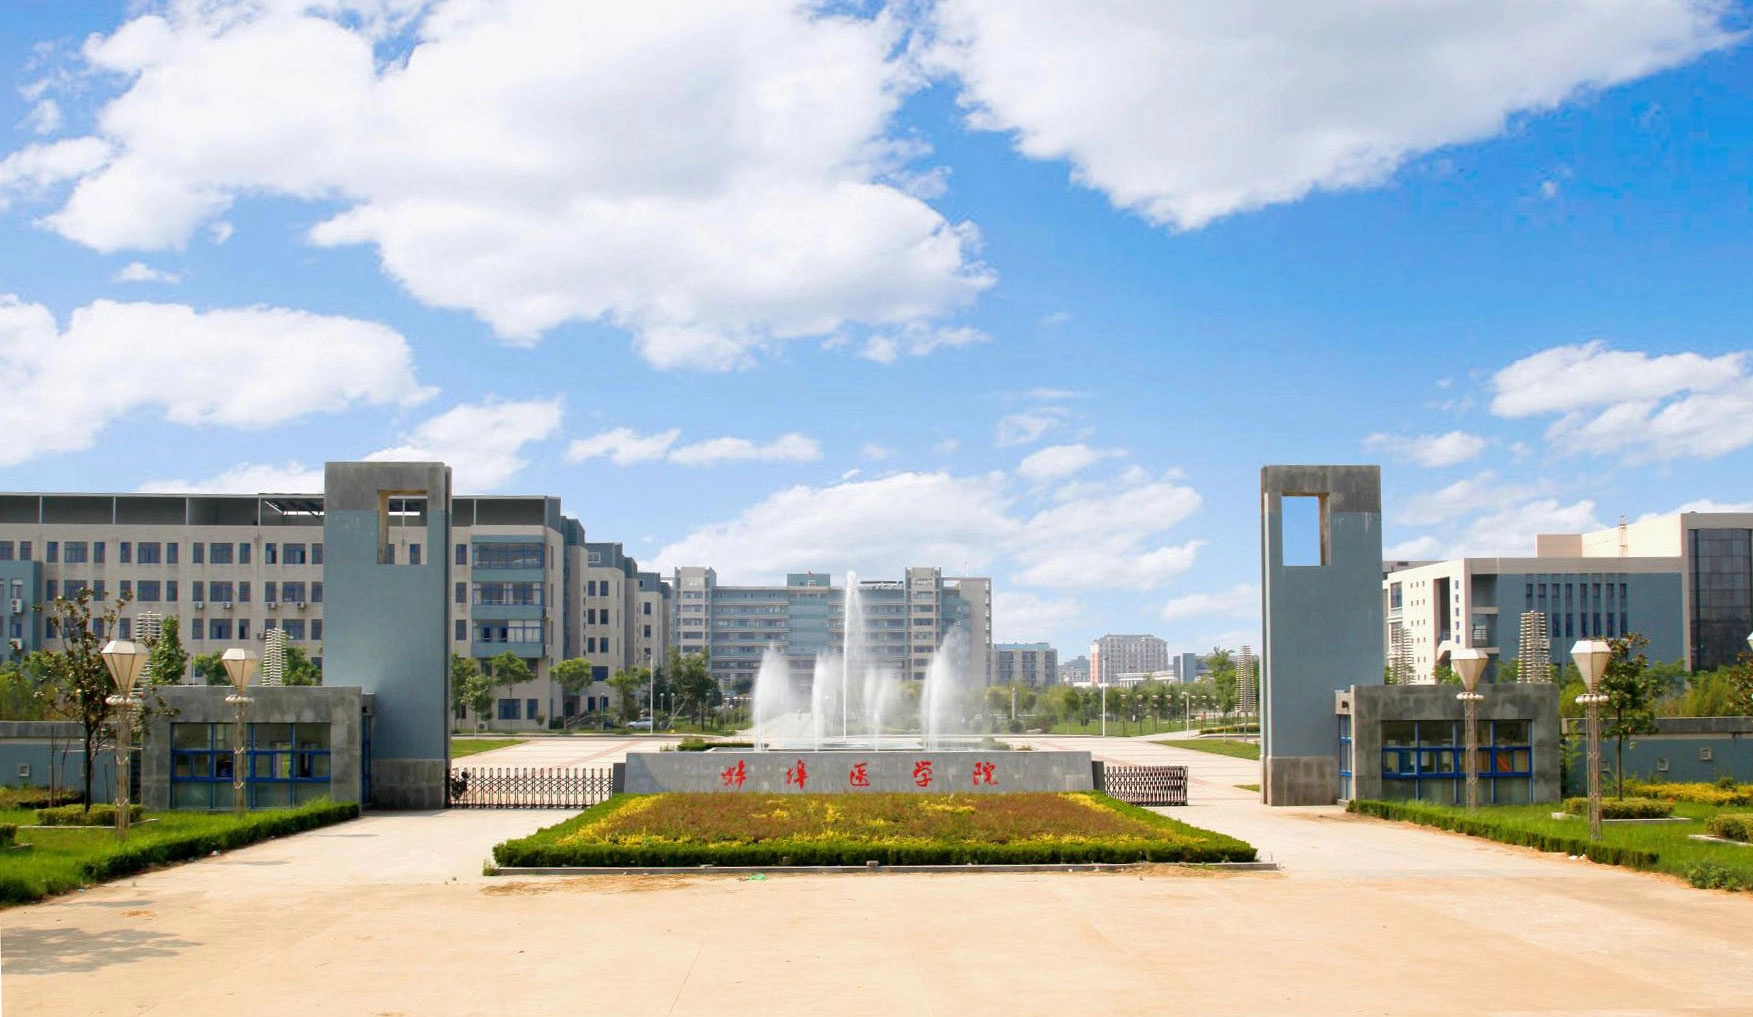
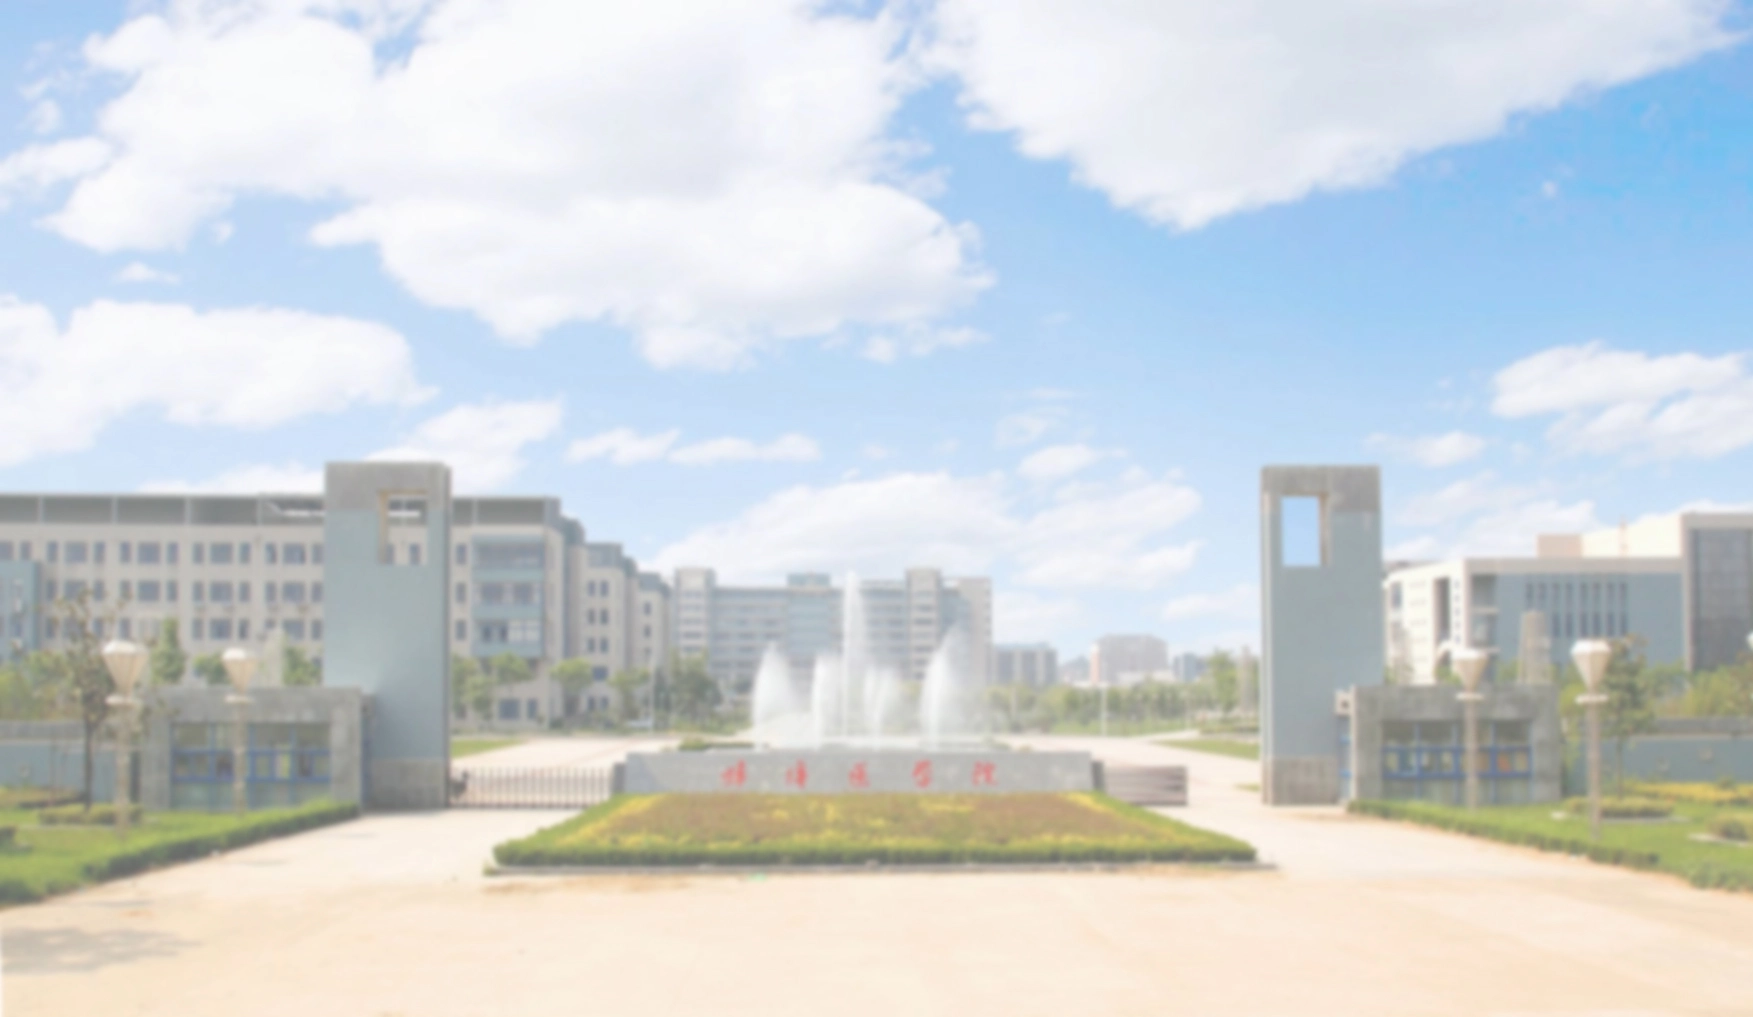
Update

diff --git a/research.html b/research.html
@@ -12,17 +12,14 @@
     <!--[if lt IE 9]>
     <script src="//html5shiv.googlecode.com/svn/trunk/html5.js"></script>
     <![endif]-->
-
     <script>
       (function(i,s,o,g,r,a,m){i['GoogleAnalyticsObject']=r;i[r]=i[r]||function(){
       (i[r].q=i[r].q||[]).push(arguments)},i[r].l=1*new Date();a=s.createElement(o),
       m=s.getElementsByTagName(o)[0];a.async=1;a.src=g;m.parentNode.insertBefore(a,m)
       })(window,document,'script','https://www.google-analytics.com/analytics.js','ga');
-
       ga('create', 'UA-29643011-3', 'auto');
       ga('send', 'pageview');
     </script>
-
     <!-- New GA4 tracking code, see https://support.google.com/analytics/answer/10271001#analyticsjs-enable-basic --> 
     <script async src="https://www.googletagmanager.com/gtag/js?id=G-GNJD50R0Z7"></script>
     <script>
@@ -31,11 +28,9 @@
     gtag('js', new Date());
     gtag('config', 'G-GNJD50R0Z7');
     </script>
-
     <!-- For all browsers -->
     <link rel="stylesheet" href="assets/css/academicons.min.css"/>
     <link rel="stylesheet" href="assets/css/academicons.css"/>
-
     <style>
       button.accordion {
       font:14px/1.5 Lato, "Helvetica Neue", Helvetica, Arial, sans-serif;
@@ -141,22 +136,21 @@
     <hr>                    
     -->
 
-
     <h2 style="text-shadow: 0.6px 0.6px 0 #000;"><a id="published-papers-updated" class="anchor" href="#publications" aria-hidden="true"><span class="octicon octicon-link"></span></a>Funding</h2>
     <p style="margin:0"> <i> <b> Screening and verification of prognosis-related genes for head and neck squamous cell carcinoma based on bioinformatics.</b> </i> <br> <i> <b> Junjie Ma </b> </i>, Jingyu Mei, Lili Ren, Wang Li, Yifan Zhu, Haoxuan Zhang. <br> National Innovative Entrepreneurial Training Plan Program for College Students (<a href="http://gjcxcy.bjtu.edu.cn/NewLXItemListForStudentDetail.aspx?ItemNo=895639&year=2022&type=student&IsLXItem=0" target="_blank" style="margin:0; font-size:100%; font-weight:bold" > <i> 202210367002 </i> </a> ) <br> <br> <br>
     
     <h2 style="text-shadow: 0.6px 0.6px 0 #000;"><a id="published-papers-updated" class="anchor" href="#publications" aria-hidden="true"><span class="octicon octicon-link"></span></a>Published &amp; Forthcoming Papers</h2>
-    <p style="margin:0"> <i> <b> Integrated machine learning and deep learning for predicting diabetic nephropathy model construction, validation, and interpretability. </b> </i> <br> <i> <b> Junjie Ma </b> </i>, Shaoguang An, Mohan Cao, Lei Zhang, Jin Lu <br> <i> Endocrine </i>, 2024, 85 (2): 615-625. <br> <a href="https://doi.org/10.1007/s12020-024-03735-1" target="_blank" style="margin:0; font-size:100%; font-weight:bold"> <i> DOI </i> </a> <a href="https://pubmed.ncbi.nlm.nih.gov/38393509/" target="_blank" style="margin:0; font-size:100%; font-weight:bold"> <i> &nbsp; PubMed </i> </a> <br> <br>
+    <p style="margin:0"> <i> <b> Integrated machine learning and deep learning for predicting diabetic nephropathy model construction, validation, and interpretability. </b> </i> <br> <i> <b> Junjie Ma </b> </i>, Shaoguang An, Mohan Cao, Lei Zhang, Jin Lu <br> <i> Endocrine</i>, 2024, 85 (2): 615-625. <br> <a href="https://doi.org/10.1007/s12020-024-03735-1" target="_blank" style="margin:0; font-size:100%; font-weight:bold"> <i> DOI </i> </a> <a href="https://pubmed.ncbi.nlm.nih.gov/38393509/" target="_blank" style="margin:0; font-size:100%; font-weight:bold"> <i> &nbsp; PubMed </i> </a> <br> <br>
     
      <p style="margin:0"> <i> <b> PPP1R14A is Associated with Immunotherapy Resistance in Head and Neck Squamous Cell Carcinoma Identified by Single-Cell and Bulk RNA-Sequencing. </b> </i> <br> <i> <b> Junjie Ma </b> </i>, Lei Zhang, Jin Lu, Haoxuan Zhang <br> <i>Chinese Medical Sciences Journal</i>, 2024, 39 (2): 111-121. <br> <a href="https://doi.org/10.24920/004354" target="_blank" style="margin:0; font-size:100%; font-weight:bold"> <i> DOI </i> </a> <a href="https://pubmed.ncbi.nlm.nih.gov/38887993" target="_blank" style="margin:0; font-size:100%; font-weight:bold"> <i> &nbsp; PubMed </i> </a> <br> <br>
      
-     <p style="margin:0"> <i> <b> Analysis of correlation between high expression of nucleoporin 85 (NUP85) and immune cell infiltration in hepatocellular carcinoma.</b> </i> <br> Xinyu Liu, Zebang Ding, Huan Wu, <i> <b> Junjie Ma </b> </i>, Jin Lu <br> <i> Chinese journal of cellular and molecular immunology </i>, 2024, 340 (6): 508-519. <br> <a href="https://doi.org/10.13423/j.cnki.cjcmi.009797" target="_blank" style="margin:0; font-size:100%; font-weight:bold"> <i> DOI </i> </a> <a href="https://pubmed.ncbi.nlm.nih.gov/38952090" target="_blank" style="margin:0; font-size:100%; font-weight:bold"> <i> &nbsp; PubMed </i> </a> <br> <br>
+     <p style="margin:0"> <i> <b> Analysis of correlation between high expression of nucleoporin 85 (NUP85) and immune cell infiltration in hepatocellular carcinoma.</b> </i> <br> Xinyu Liu, Zebang Ding, Huan Wu, <i> <b> Junjie Ma </b> </i>, Jin Lu <br> <i> Chinese journal of cellular and molecular immunology</i>, 2024, 340 (6): 508-519. <br> <a href="https://doi.org/10.13423/j.cnki.cjcmi.009797" target="_blank" style="margin:0; font-size:100%; font-weight:bold"> <i> DOI </i> </a> <a href="https://pubmed.ncbi.nlm.nih.gov/38952090" target="_blank" style="margin:0; font-size:100%; font-weight:bold"> <i> &nbsp; PubMed </i> </a> <br> <br>
      
-     <p style="margin:0"> <i> <b> Vasculogenic mimicry-associated novel gene signature predicted prognosis and response to immunotherapy in lung adenocarcinoma. </b> </i> <br> Lei Zhang, Jiatao Wu, Weiwei Yin, Junjie Hu, Lingli Liao, <i> <b> Junjie Ma </b> </i>, Ziwei Xu, Shiwu Wu<br> <i>Pathology - Research and Practice </i>, 2024, 253: 155048. <br> <a href="https://doi.org/10.1016/j.prp.2023.155048" target="_blank" style="margin:0; font-size:100%; font-weight:bold"> <i> DOI </i> </a> <a href="https://pubmed.ncbi.nlm.nih.gov/38147724" target="_blank" style="margin:0; font-size:100%; font-weight:bold"> <i> &nbsp; PubMed </i> </a> <br> <br>
+     <p style="margin:0"> <i> <b> Vasculogenic mimicry-associated novel gene signature predicted prognosis and response to immunotherapy in lung adenocarcinoma. </b> </i> <br> Lei Zhang, Jiatao Wu, Weiwei Yin, Junjie Hu, Lingli Liao, <i> <b> Junjie Ma </b> </i>, Ziwei Xu, Shiwu Wu<br> <i>Pathology - Research and Practice</i>, 2024, 253: 155048. <br> <a href="https://doi.org/10.1016/j.prp.2023.155048" target="_blank" style="margin:0; font-size:100%; font-weight:bold"> <i> DOI </i> </a> <a href="https://pubmed.ncbi.nlm.nih.gov/38147724" target="_blank" style="margin:0; font-size:100%; font-weight:bold"> <i> &nbsp; PubMed </i> </a> <br> <br>
      
-     <p style="margin:0"> <i> <b> Screen of key characteristic genes of nasopharyngeal carcinoma (NPC) base on machine learning and analysis of their correlation with immune cells. </b> </i> <br> Haoxuan Zhang, <i> <b> Junjie Ma </b> </i>, Shaoguang An, Lixue Xu, Jin Lu, Chengyi Jiang <br> <i>Chinese journal of cellular and molecular immunology </i>, 2023, 39 (11): 988-995. <br> <a href="https://doi.org/10.13423/j.cnki.cjcmi.009669" target="_blank" style="margin:0; font-size:100%; font-weight:bold"> <i> DOI </i> </a> <a href="https://pubmed.ncbi.nlm.nih.gov/37980550" target="_blank" style="margin:0; font-size:100%; font-weight:bold"> <i> &nbsp; PubMed </i> </a> <br> <br>
+     <p style="margin:0"> <i> <b> Screen of key characteristic genes of nasopharyngeal carcinoma (NPC) base on machine learning and analysis of their correlation with immune cells. </b> </i> <br> Haoxuan Zhang, <i> <b> Junjie Ma </b> </i>, Shaoguang An, Lixue Xu, Jin Lu, Chengyi Jiang <br> <i>Chinese journal of cellular and molecular immunology</i>, 2023, 39 (11): 988-995. <br> <a href="https://doi.org/10.13423/j.cnki.cjcmi.009669" target="_blank" style="margin:0; font-size:100%; font-weight:bold"> <i> DOI </i> </a> <a href="https://pubmed.ncbi.nlm.nih.gov/37980550" target="_blank" style="margin:0; font-size:100%; font-weight:bold"> <i> &nbsp; PubMed </i> </a> <br> <br>
     
-     <p style="margin:0"> <i> <b> Topoisomerase Ⅱα Gene as a Marker for Prognostic Prediction of Hepatocellular Carcinoma: A Bioinformatics Analysis. </b> </i> <br> Jin Lu, Shaoguang An, <i> <b> Junjie Ma </b> </i>, Yue Yang, Lei Zhang, Peng Yu, Heng Tao, Yunfan Chen, Haoxuan Zhang<br> <i>Chinese medical sciences journal </i>, 2022, 37 (4): 331-339. <br> <a href="https://doi.org/10.24920/004006" target="_blank" style="margin:0; font-size:100%; font-weight:bold"> <i> DOI</i> </a> <a href="https://pubmed.ncbi.nlm.nih.gov/36647592" target="_blank" style="margin:0; font-size:100%; font-weight:bold"> <i> &nbsp; PubMed </i> </a> <br> <br>
+     <p style="margin:0"> <i> <b> Topoisomerase Ⅱα Gene as a Marker for Prognostic Prediction of Hepatocellular Carcinoma: A Bioinformatics Analysis. </b> </i> <br> Jin Lu, Shaoguang An, <i> <b> Junjie Ma </b> </i>, Yue Yang, Lei Zhang, Peng Yu, Heng Tao, Yunfan Chen, Haoxuan Zhang<br> <i>Chinese medical sciences journal</i>, 2022, 37 (4): 331-339. <br> <a href="https://doi.org/10.24920/004006" target="_blank" style="margin:0; font-size:100%; font-weight:bold"> <i> DOI</i> </a> <a href="https://pubmed.ncbi.nlm.nih.gov/36647592" target="_blank" style="margin:0; font-size:100%; font-weight:bold"> <i> &nbsp; PubMed </i> </a> <br> <br>
    
       </section>
     </div>

diff --git a/assets/css/academicons.css b/assets/css/academicons.css
@@ -23,25 +23,6 @@ body {
   background-attachment: fixed;
   background-position: center center;
   background-size: cover;
-  position: relative;
-  overflow: auto;
-  min-height: 100vh;
-}
-body::before {
-  content: '';
-  position: fixed;
-  top: 0;
-  left: 0;
-  width: 100vw; 
-  height: 100vh; 
-  background: rgba(255, 255, 255, 0.43);
-  backdrop-filter: blur(2px); 
-  pointer-events: none; 
-  z-index: 1; 
-}
-body * {
-  position: relative;
-  z-index: 2; 
 }
 .ai {
 font-family: 'Academicons';
